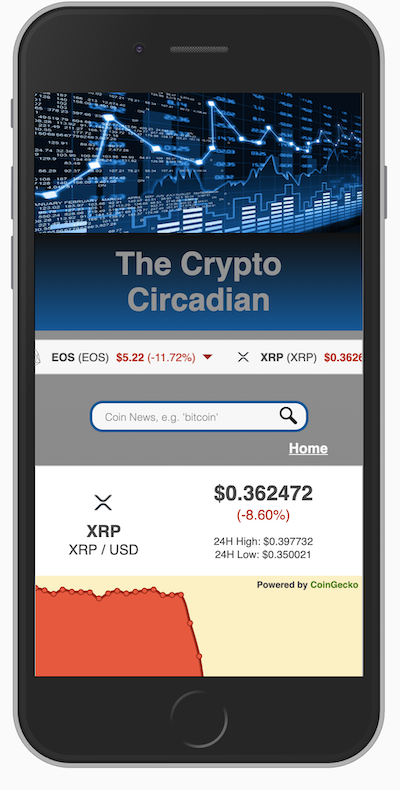
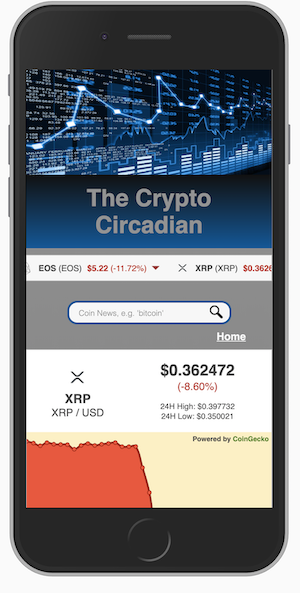
js commented; html footer added; css for footer

diff --git a/script.js b/script.js
@@ -21,7 +21,7 @@ function roundToTwo(num) {
     console.log('num = ' + num);
 } 
 
-//passes in a string containing a big number & returns an rounded & labeled display number
+//passes in a string containing a big number & returns a rounded & labeled display number
 function bigNumberCrusher(bigNumStr) {
     let bigNumLength = bigNumStr.length;
     if (bigNumLength <= 3) {
@@ -54,34 +54,28 @@ function decimalAdder(bigNumStr, length, sliceNum) {
 
 //get the homepage display of ranked coins from the CoinGecko API
 function getCoinRanking() {
-    // console.log('getCoinRanking ran');
     const rankingDisplayID = 1;
-   
-    //API parameters
+    //coinGecko API parameters
     const params = {
         vs_currency: 'usd',
     }
     const queryString = formatQueryParams(params);
     const url = coinGeckoURL + '?' + queryString;
-    // console.log('Coin Gecko URL: ' + url);
     dataComms(url, rankingDisplayID);
 }
 
 //displays the top 10 coins on the homepage
 function displayCoinRanking(responseJson) {
-    // console.log('displayCoinRanking ran');
-    // console.log(responseJson);
     emptyContainers();
     $('#js-coinRankContainer').append(`<h2>Top 10 Coins by Market Capitalization</h2><ul id="results-list"></ul>`)
     for (let i = 0; i < 10; i++) {
-        //variables to format responseJson values
+        //variables to format responseJson values from coinGecko for display
         let coinName = `${responseJson[i].id}`.toUpperCase();
         let coinSymbol = `${responseJson[i].symbol}`.toUpperCase();
         let currentPrice = roundToTwo(`${responseJson[i].current_price}`);
         let percentChange = roundToTwo(`${responseJson[i].price_change_percentage_24h}`);
         let mktCap = bigNumberCrusher(`${responseJson[i].market_cap}`)
         let totalVol = bigNumberCrusher(`${responseJson[i].total_volume}`);
-        
         $('#results-list').append(
             `<li>
                 <div class="coinTile">
@@ -120,31 +114,24 @@ function displayCoinWidgetChart() {
 
 //get the most current articles from the NewsAPI
 function getCoinNews() {
-    // console.log('getCoinNews ran');
     const newsDisplayID = 2;
-
     //newsAPI parameters
     const params = {
         language: 'en',
         sortBy: 'publishedAt',
         q: searchCoin,
     };
-    
     const queryString = formatQueryParams(params);
     const url = newsSearchURL + '?' + queryString;
-    // console.log('News URL: ' + url);
     const options = {
         headers: new Headers({
             "X-Api-Key": newsAPI_Key})
         };
-    
         dataComms(url, newsDisplayID, options);
 }
 
 //displays 15 most current articles from the NewsAPI
 function displayCoinNews(responseJson) {
-    // console.log('displayCoinNews ran');
-    //console.log(responseJson);
     $('#js-form').append('<a class="homeButton" href="#" onClick="location.reload()">Home</a>')    
     $('#js-coinNews').append(`<h2>${searchCoin} NEWS</h2><ul id="results-list"></ul>`)
     for (let i = 0; i < 15; i++) {
@@ -180,6 +167,7 @@ function dataComms(url, displayID, options) {
     .then(responseJson => {
         if (displayID === 1) {
             displayCoinRanking(responseJson);
+            //put the response data in a global so we can reference it for user error handling
             top100Coins = responseJson;
         }
         else {displayCoinNews(responseJson);
@@ -195,14 +183,14 @@ function dataComms(url, displayID, options) {
 function watchForm() {
     $('form').submit(event => {
         event.preventDefault();
-        console.log('the form was submitted');
         searchCoin = $('#js-search-coin').val().toUpperCase();
-        console.log('searchCoin = ' + searchCoin);
         emptyContainers();
         checkUserSubmission();
     });
 }
 
+//takes user input and checks if the coin exists in the top 100; spell checks too - inaccurate spelling won't
+//get the news articles the user wants to see
 function checkUserSubmission() {
     let coinMatch = false;
     for (let i = 0; i < 100; i++) {
@@ -219,19 +207,16 @@ function checkUserSubmission() {
         $('#js-form').append('<a class="homeButton" href="#" onClick="location.reload()">Home</a>')
         $('#js-coinGeckoWidget').append(`<div class="errorBlock">
         <h2>Typo?</h2>
-        <p>We couldn\'t find that coin to display it's trend chart and current news.</p>
-        <p>Check your spelling to get the chart and the most accurate news.</p>
+        <p class="noCoinMessage">We couldn\'t find that coin to display it's trend chart and current news.</p>
+        <p class="noCoinMessage">Check your spelling to get the chart and the most accurate news.</p>
         </div>`)
-        // console.log('error in checkUserSubmission');
     }
 }
 
 //handles coin titles that are clicked and calls getCoinNews
 function coinLinkClicked(id) {
     event.preventDefault();
-    // console.log('the user clicked a coin link & ID = ' + id);
     searchCoin = id;
-    // console.log('searchCoin = ' + searchCoin);
     emptyContainers();
     getCoinNews();
     displayCoinWidgetChart();
@@ -243,7 +228,7 @@ getCoinRanking();
 // waiting...watching for user form submisions
 $(watchForm);
 
-//clear or empty out the DOM for new content
+//clear the DOM for new content
 function emptyContainers() {
     $('.homeButton').remove()
     $('#js-coinGeckoWidget').empty()

diff --git a/style.css b/style.css
@@ -44,6 +44,9 @@ h1 {
     margin: 10px auto;
 }
 
+
+/* ----- Search Bar / Input Styling / DOM Links ----- */
+
 .searchBar {
     position: relative;
     margin: 0 auto;
@@ -100,7 +103,7 @@ h2 {
     font-weight: 600;
 }
 
-/* styling for home page coin rankings */
+/* ----- Coin Tile Styling ----- */
 
 .coinRankContainer ul {
     list-style: none;
@@ -195,7 +198,7 @@ h5 {
 
 
 
-/* styling for news articles */
+/* ----- News Articles Styling ----- */
 
 .articleImage {
     height: 150px;
@@ -237,9 +240,63 @@ h5 {
     color: #f7f7f7;
 }
 
+.noCoinMessage {
+    color: #f7f7f7;
+    font-weight: 600;
+    text-align: center;
+}
 
+/* ----- Footer Styling ----- */
 
-/* media breaks */
+.footerTransition {
+    /* background-image: linear-gradient(to bottom, #111, #02579b); */
+    background-color: #939393;
+    height: 25px;
+    width: 100%;
+}
+
+footer {
+    background-color: #02579b;
+}
+
+footer ul {
+    list-style: none;
+    color: #f7f7f7;
+    margin: 0;
+    font-weight: bolder;
+    padding: 25px 100px;
+}
+
+footer li {
+    font-weight: 400;
+    font-size: 13px;
+    padding: 10px 5px 5px 8px;
+}
+
+footer a {
+    text-decoration: none;
+    color: #f7f7f7; 
+    padding-left: 5px;
+}
+
+footer a:hover,
+footer a:focus {
+    text-decoration: underline;
+    cursor: pointer;  
+    color: #939393;  
+}
+
+.icon {
+    height: 15px;
+    width: 15px;
+}
+
+.emailLogo {
+    height: 15px;
+    width: 15px;
+}
+
+/* ----- Media Breaks ----- */
 
 @media (min-width: 500px) {
     .coinRankContainer ul {
@@ -287,7 +344,6 @@ h5 {
         z-index: 6;
     }
     .headerMainPic {
-        /* background-image: url(https://github.com/mblakley4/cryptoCircadian/blob/master/header.png?raw=true); */
         visibility: visible; 
         width: 100%;
         max-width: 1200px;

diff --git a/index.html b/index.html
@@ -36,5 +36,17 @@
     </div>
     <script src="script.js"></script>
 </main>
+<div class="footerTransition"></div>
+<footer>
+    <ul>DEVELOPER
+        <li>Michael Blakley</li>
+        <li><img class="emailLogo square icon" src="https://github.com/mblakley4/Portfolio/blob/master/Email_Icon.png?raw=true">
+            <a href="mailto:m.blakley@icloud.com" target="_blank" alt="email icon">Email</a></li>
+        <li><img class="gitHubLogo circle icon" src="https://github.com/mblakley4/Portfolio/blob/master/GitHub_Logo.png?raw=true">
+            <a href="https://github.com/mblakley4" target="_blank" alt="gitHub logo">GitHub</a></li>
+        <li><img class="twitterLogo circle icon" src=https://github.com/mblakley4/Portfolio/blob/master/Twitter_Logo.png?raw=true">
+                <a href="https://twitter.com/mblakley4" target="_blank" alt="twitter logo">Twitter</a></li>
+    </ul>
+</footer>
 </html>
 
